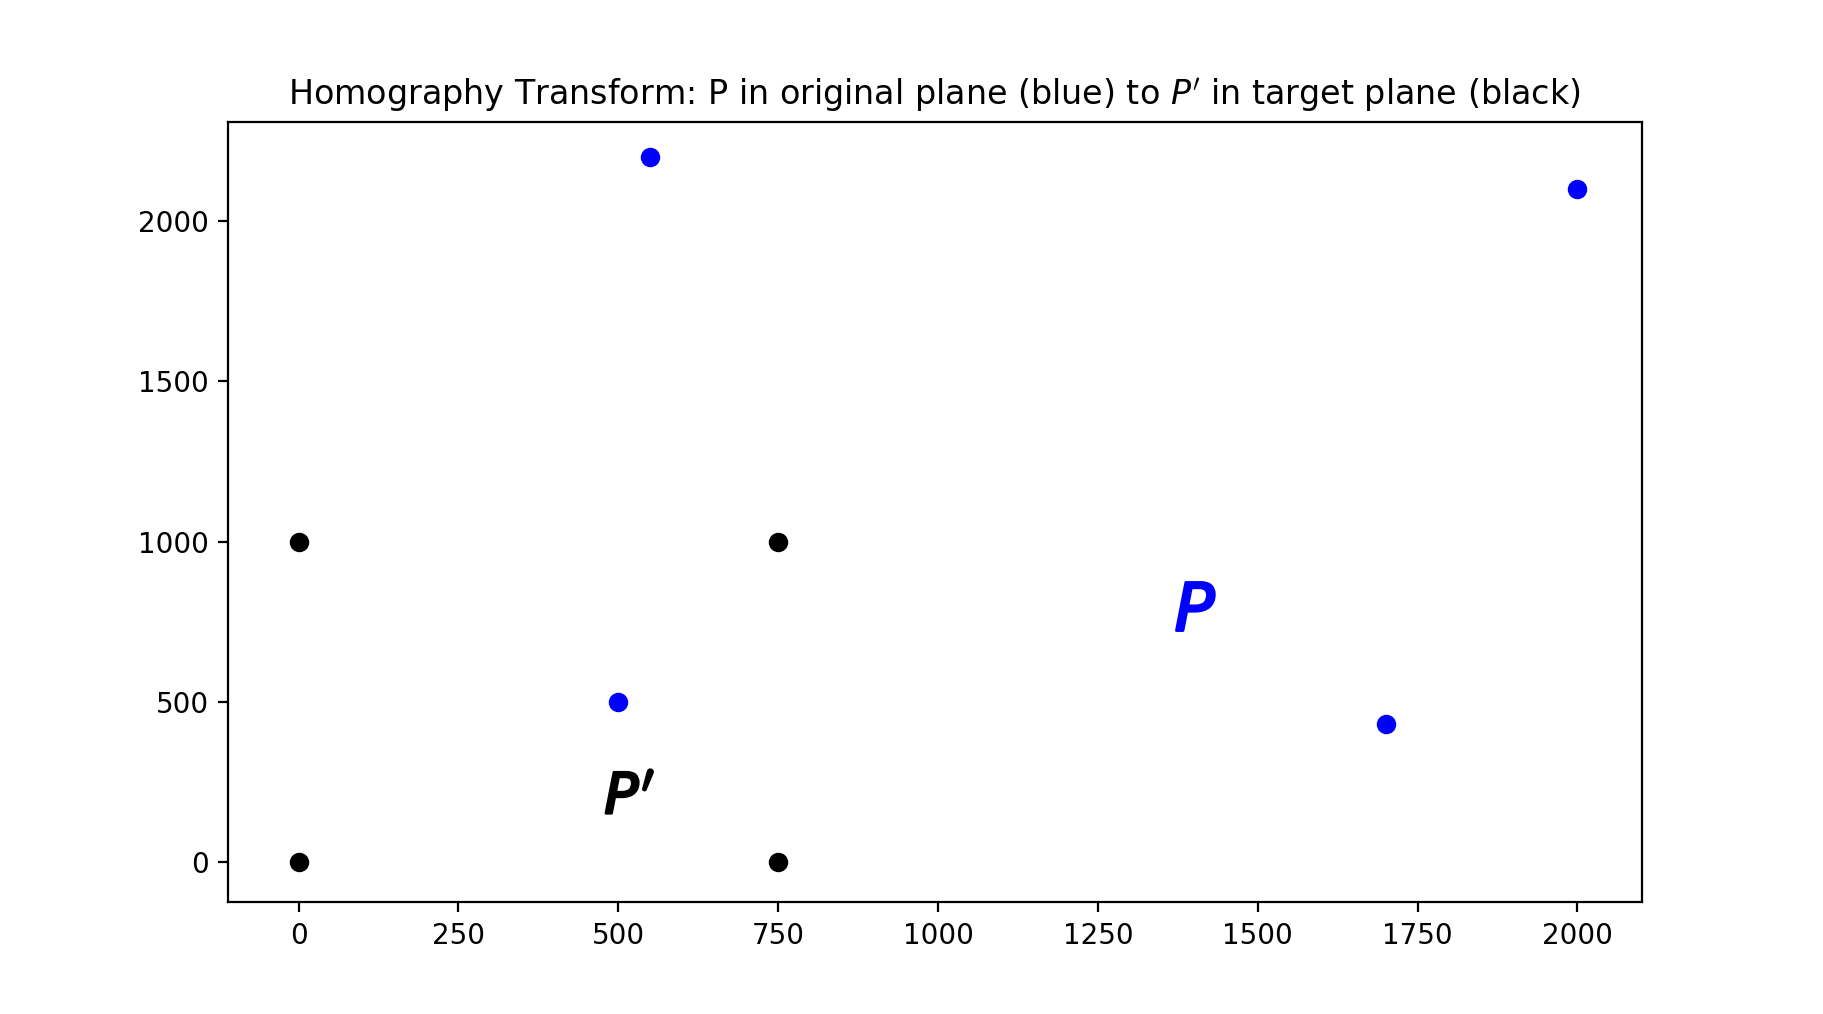
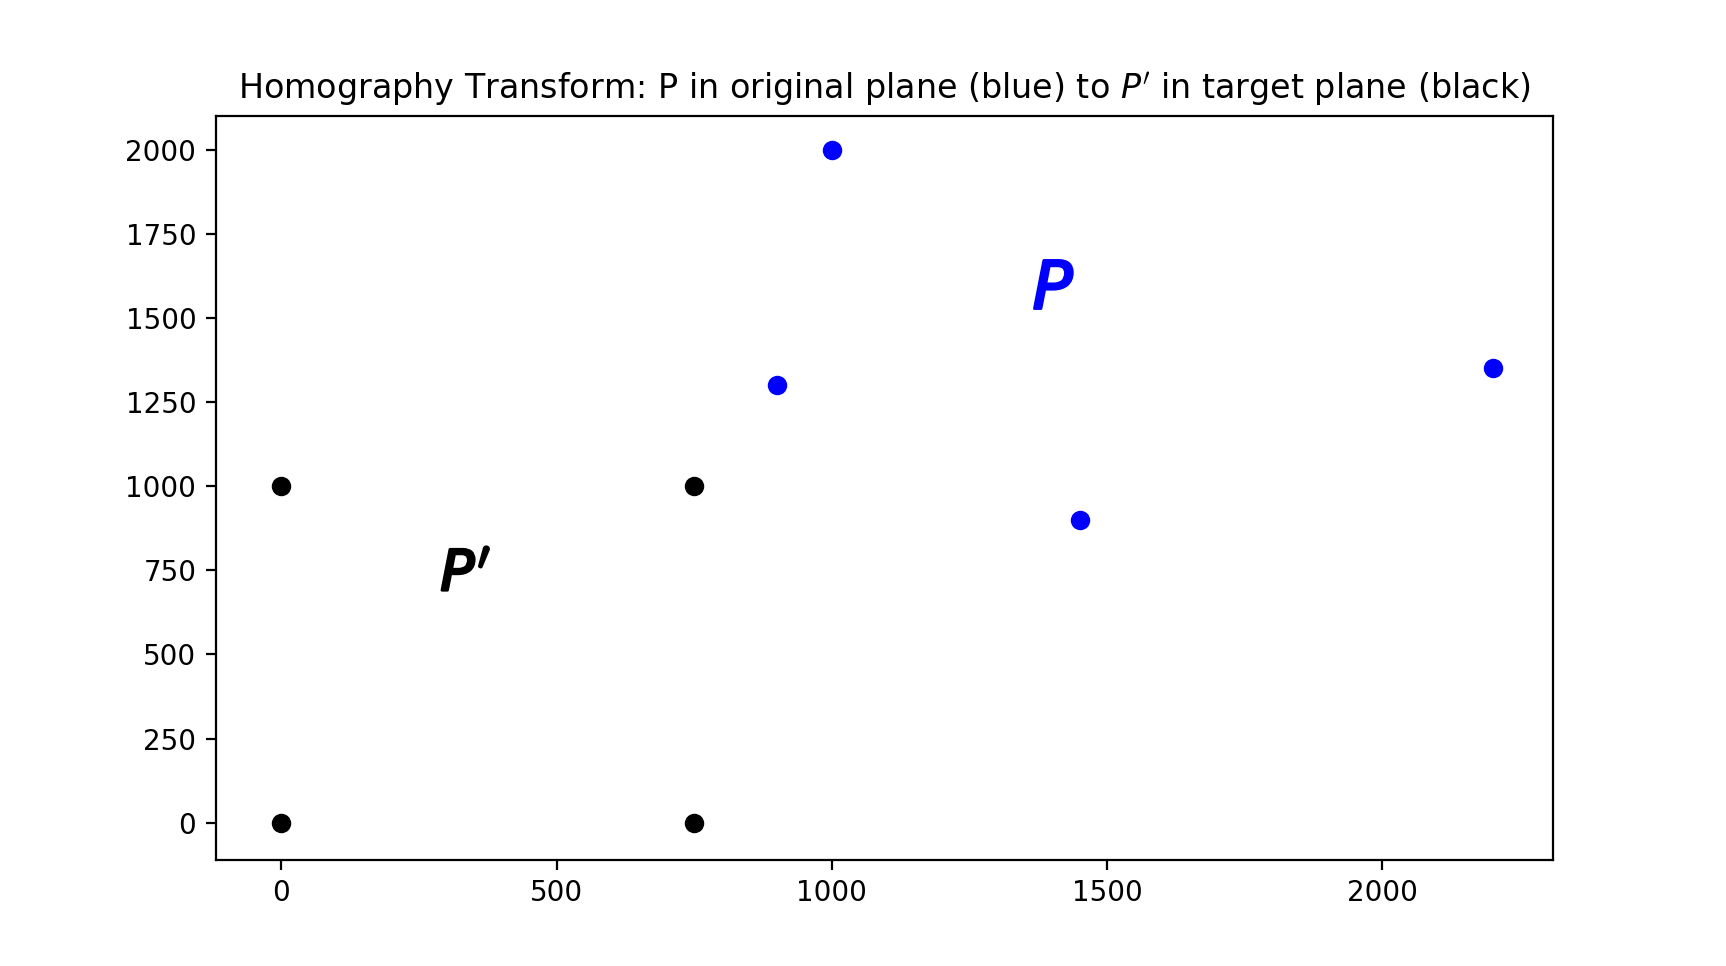
update barycentric example

diff --git a/implement_transforms.py b/implement_transforms.py
@@ -2,6 +2,7 @@ import numpy as np
 import matplotlib.pyplot as plt
 
 from CoordinateTransforms.Quadrilateral import HomographyTransform
+from CoordinateTransforms.Triangle import BarycentricTransform
 
 def plot_plane_and_point_labeled(xx, yy, P):
     corner_labels = ['p0', 'p1', 'p2', 'p3']
@@ -24,6 +25,75 @@ def plot_plane_and_point(xx, yy, P):
     #plt.savefig('foot_coords_raw.png', format='png', dpi=200)
     #plt.close()
 
+
+def remove_furthest_point(array):
+    ''' input: array, (m x n) array, with n dimensions
+
+        output: array, (m-1 x n) missing furthest point
+                array, (1 x n) furthest point
+
+        requires package: scipy.spatial.distance'''
+    from scipy.spatial import distance
+
+    Y = distance.pdist(array, 'euclidean')
+    dist = distance.squareform(Y)
+    i = np.argmax(np.sum(dist, axis=0)) # index of point furthest from others
+    ii = [0,1,2,3]
+
+    P = array[i,:]
+    ii.remove(i)
+    close3 = array[ii,:]
+    return close3, P
+
+def triangle_array_from_quad_array(arr, idx):
+    ''' arr: 2x4 array defining quadrilateral
+        idx: list of 3 indices between 0 and 3 (e.g. [0,2,3])'''
+    return arr[:, idx]
+
+def get_foot_length_barycentric_mean_3best(array):
+    ''' input:  5x2 numpy array
+                order = [UL, Toe, UR, LR, LL]
+
+        output: length in cm
+
+        requires    class: BarycentricTransform
+                    function: scale_rectangle
+                    function: remove_furthest_point
+                                '''
+    # define existing quadrilateral
+    P = array[1,:]
+    quad_1 = array[[0,2,3,4],:] # 4 corners of quadrilateral
+
+    # define target quadrilateral
+    xx_true = np.array([0, 850, 850, 0]).reshape(-1,1)
+    yy_true = np.array([0, 0, 1100, 1100]).reshape(-1,1)
+    quad_2 = np.concatenate((xx_true, yy_true), axis=1)
+
+    # barycentric transform for 4 possible triangles of quadrilateral
+    idx_combos = [[0,1,2], [1,2,3], [0,2,3], [1,0,3]]
+    transformed_points = []
+    for idx in idx_combos:
+        # define similar triangles from both quadrilaterals
+        tri_1 = triangle_array_from_quad_array(quad_1, idx)
+        tri_2 = triangle_array_from_quad_array(quad_2, idx)
+
+        # perform barycentric transform
+        BT = BarycentricTransform(tri_1[:,0], tri_1[:,1], tri_2[:,0], tri_2[:,1])
+        BT.fit()
+        x, y = BT.transform(P)
+        transformed_points.append([x,y])
+
+    # mean of 3 best points
+    #pdb.set_trace()
+    transformed = np.array(transformed_points)
+    closest_3, point = remove_furthest_point(transformed)
+    mean3_xy = np.mean(closest_3, axis=0)
+    XX = [0, 850, 850, 0]
+    YY = [0, 0, 1100, 1100]
+    mean3_foot_cm = scale_rectangle(XX, YY, mean3_xy, conv=2.54)
+
+    return mean3_foot_cm
+
 def plot_2_planes_2_points(xx, yy, XX, YY, P, P1):
     corner_labels = ['p0', 'p1', 'p2', 'p3']
     target = 'P'
@@ -36,23 +106,59 @@ def plot_2_planes_2_points(xx, yy, XX, YY, P, P1):
     plt.title(r'Homography Transform: P in original plane (blue) to ${}$ in target plane (black)'.format(transformed))
     plt.show()
 
+def plot_barycentric(triangle_1, triangle_2, P, P1, fname):
+    fig = plt.subplots()
+    plt.scatter(triangle_1[0,:], triangle_1[1,:], c='b')
+    plt.scatter(P[0], P[1], c='b', marker = r"$ P $", s=300)
+    plt.scatter(triangle_2[0,:], triangle_2[1,:], c='k')
+    plt.scatter(P1[0], P1[1], c='k', marker = r"$ P' $", s=300)
+    plt.title(r"Barycentric Transform: P in original plane (blue) to $ P'$ in target plane (black)")
+    plt.show()
+    #plt.savefig('Transform_Figs/' + fname, dpi=250)
+    #plt.close()
+
 if __name__=='__main__':
     # define points of original plane
-    arr = np.array([[500, 1700, 2000, 550], [500, 430, 2100, 2200]])
-    
+    xx = [900, 1450, 2200, 1000]
+    yy = [1300, 900, 1350, 2000]
+
     # point in original plane
-    P = np.array([1400, 800])
+    P = [1400, 1600]
 
     # define points of transform plane
     XX = [0, 750, 750, 0]
     YY = [0, 0, 1000, 1000]
 
-    # Homography transform
-    xx = arr[0,:]
-    yy = arr[1,:]
+    # 1. Homography transform
     HT = HomographyTransform(xx, yy, XX, YY)
     HT.fit()
     x, y = HT.transform(P)
 
-    # plot
     plot_2_planes_2_points(xx, yy, XX, YY, P, (x,y))
+
+    # 2. Barycentric Transform for 4 possible triangles of quadrilateral
+    quad1 = np.array([xx,yy])
+    quad2 = np.array([XX,YY])
+
+    idx_combos = [[0,1,2], [1,2,3], [0,2,3], [1,0,3]]
+    transformed_points = []
+    for idx in idx_combos:
+        # define similar triangles from both quadrilaterals
+        tri_1 = triangle_array_from_quad_array(quad1, idx)
+        tri_2 = triangle_array_from_quad_array(quad2, idx)
+
+        # perform barycentric transform
+        BT = BarycentricTransform(tri_1[0,:], tri_1[1,:], tri_2[0,:], tri_2[1,:])
+        BT.fit()
+        x, y = BT.transform(P)
+        transformed_points.append([x,y])
+    transformed = np.array(transformed_points)
+
+    # mean of 4 points
+    mean4_xy = np.mean(transformed, axis=0)
+
+    # mean of closest 3 points
+    closest_3, otherpoint = remove_furthest_point(transformed)
+    mean3_xy = np.mean(closest_3, axis=0)
+
+    plot_barycentric(tri_1, tri_2, P, mean4_xy, 'barycentric')

diff --git a/README.md b/README.md
@@ -33,7 +33,7 @@ These coordinates are precise, but not useful for most applications because they
 
 In the _convert_to_cartesian_ method, the barycentric coordinates (x) are multiplied by the target plane coordinates to find the target point in x,y coordinates.
 
-example coming soon... 
+<img alt="barycentric" src="/figures/barycentric_example.png" width="800">
 
 
 ### Signal Processing Tools
